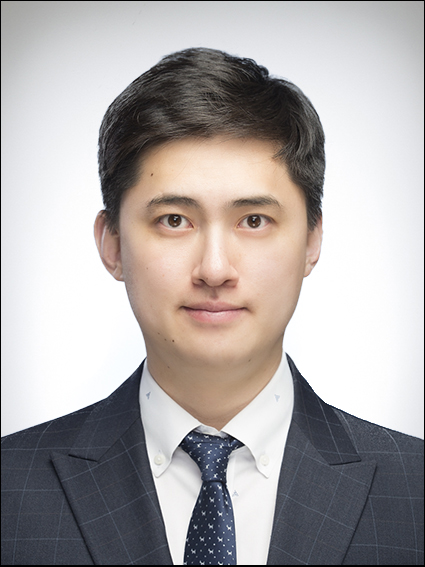
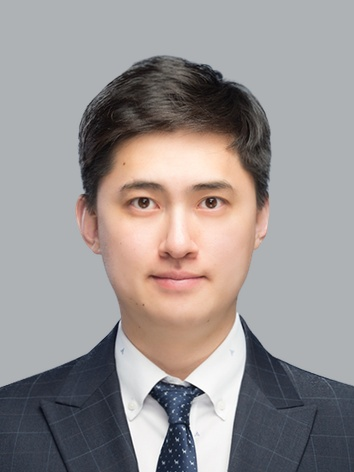
feat: add 3 new team members, update member card layout, replace photos
- Add 유동경, 임영란, 이한울 to attorneys page with education/career info
- Upgrade 공대호, 한상은 cards to featured-style (same as 공대우)
- Replace 공대우, 공대호(png→jpg), 한상은 photos
- Replace footer logo with higher resolution image
- Fix footer logo sharpness (width/height 48→120)
- Minor text fixes: 생명과학부→생명과학대학, 중국어→중국어문학과, 기술거래사 English translation

diff --git a/app/[locale]/attorneys/AttorneysContent.tsx b/app/[locale]/attorneys/AttorneysContent.tsx
@@ -49,41 +49,89 @@ export function AttorneysContent() {
         t("featured2Career5"),
       ],
     },
-  ];
-
-  const MEMBERS = [
     {
-      name: t("member1Name"),
-      roles: [t("member1Role")],
-      photo: "/attorneys/%EA%B3%B5%EB%8C%80%ED%98%B8.png",
+      name: t("featured3Name"),
+      roles: [t("featured3Role"), t("featured3Role2")],
+      photo: "/attorneys/%EC%9C%A0%EB%8F%99%EA%B2%BD.jpg",
       specialties: [
-        t("member1Specialty1"),
-        t("member1Specialty2"),
-        t("member1Specialty3"),
+        t("featured3Specialty1"),
+        t("featured3Specialty2"),
+        t("featured3Specialty3"),
+        t("featured3Specialty4"),
       ],
-      education: [t("member1Edu1")],
+      education: [t("featured3Edu1"), t("featured3Edu2")],
       career: [
-        t("member1Career1"),
-        t("member1Career2"),
-        t("member1Career3"),
+        t("featured3Career1"),
+        t("featured3Career2"),
+        t("featured3Career3"),
+        t("featured3Career4"),
+        t("featured3Career5"),
       ],
     },
     {
-      name: t("member2Name"),
-      roles: [t("member2Role")],
+      name: t("featured4Name"),
+      roles: [t("featured4Role")],
+      photo: "/attorneys/%EC%9E%84%EC%98%81%EB%9E%80.jpg",
+      specialties: [
+        t("featured4Specialty1"),
+        t("featured4Specialty2"),
+        t("featured4Specialty3"),
+        t("featured4Specialty4"),
+      ],
+      education: [t("featured4Edu1"), t("featured4Edu2")],
+      career: [
+        t("featured4Career1"),
+        t("featured4Career2"),
+      ],
+    },
+    {
+      name: t("featured5Name"),
+      roles: [t("featured5Role")],
+      photo: "/attorneys/%EC%9D%B4%ED%95%9C%EC%9A%B8.jpg",
+      specialties: [
+        t("featured5Specialty1"),
+        t("featured5Specialty2"),
+        t("featured5Specialty3"),
+      ],
+      education: [t("featured5Edu1")],
+      career: [
+        t("featured5Career1"),
+        t("featured5Career2"),
+        t("featured5Career3"),
+      ],
+    },
+    {
+      name: t("featured6Name"),
+      roles: [t("featured6Role")],
+      photo: "/attorneys/%EA%B3%B5%EB%8C%80%ED%98%B8.jpg",
+      specialties: [
+        t("featured6Specialty1"),
+        t("featured6Specialty2"),
+        t("featured6Specialty3"),
+      ],
+      education: [t("featured6Edu1")],
+      career: [
+        t("featured6Career1"),
+        t("featured6Career2"),
+        t("featured6Career3"),
+      ],
+    },
+    {
+      name: t("featured7Name"),
+      roles: [t("featured7Role")],
       photo: "/attorneys/%ED%95%9C%EC%83%81%EC%9D%80.jpg",
       specialties: [
-        t("member2Specialty1"),
-        t("member2Specialty2"),
-        t("member2Specialty3"),
+        t("featured7Specialty1"),
+        t("featured7Specialty2"),
+        t("featured7Specialty3"),
       ],
-      education: [t("member2Edu1")],
+      education: [t("featured7Edu1")],
       career: [
-        t("member2Career1"),
-        t("member2Career2"),
-        t("member2Career3"),
-        t("member2Career4"),
-        t("member2Career5"),
+        t("featured7Career1"),
+        t("featured7Career2"),
+        t("featured7Career3"),
+        t("featured7Career4"),
+        t("featured7Career5"),
       ],
     },
   ];
@@ -139,7 +187,7 @@ export function AttorneysContent() {
               />
             </div>
 
-            <div className="text-center md:text-left">
+            <div className="flex-1 min-w-0 text-center md:text-left">
               <div className="flex flex-wrap justify-center gap-2 md:justify-start">
                 {person.roles.map((r) => (
                   <span key={r} className="inline-block rounded-full bg-blue-600 px-3 py-1 text-xs font-semibold text-white">
@@ -189,70 +237,6 @@ export function AttorneysContent() {
             </div>
           </div>
         ))}
-
-        {/* Team Grid */}
-        <div className="mt-12 grid gap-6 md:grid-cols-2">
-          {MEMBERS.map((member) => (
-            <div
-              key={member.name}
-              ref={(el) => { allRefs.current[refIdx++] = el; }}
-              className="flex flex-col items-center rounded-2xl border border-slate-200 bg-white p-5 md:p-6 shadow-sm opacity-0 translate-y-8 transition-all duration-700"
-            >
-              <div className="h-48 w-36 shrink-0 overflow-hidden rounded-2xl bg-slate-100 md:h-72 md:w-56">
-                <img
-                  src={member.photo}
-                  alt={`${member.name} ${member.roles.join(" ")}`}
-                  className="h-full w-full object-cover"
-                />
-              </div>
-
-              <h3 className="mt-4 text-lg font-bold text-slate-900">
-                {member.name}
-              </h3>
-              <div className="mt-1 flex flex-wrap justify-center gap-2">
-                {member.roles.map((r) => (
-                  <span key={r} className="text-sm text-slate-500">{r}</span>
-                ))}
-              </div>
-
-              <div className="mt-3 flex flex-wrap justify-center gap-2">
-                {member.specialties.map((s) => (
-                  <span
-                    key={s}
-                    className="rounded-full border border-slate-200 bg-slate-50 px-3 py-1 text-xs font-medium text-slate-600"
-                  >
-                    {s}
-                  </span>
-                ))}
-              </div>
-
-              <div className="mt-4 w-full text-sm text-slate-600">
-                <div>
-                  <h4 className="font-semibold text-slate-900">{t("education")}</h4>
-                  <ul className="mt-1 space-y-1">
-                    {member.education.map((e) => (
-                      <li key={e} className="flex items-start gap-2">
-                        <span className="mt-1.5 h-1.5 w-1.5 shrink-0 rounded-full bg-blue-600" />
-                        {e}
-                      </li>
-                    ))}
-                  </ul>
-                </div>
-                <div className="mt-3">
-                  <h4 className="font-semibold text-slate-900">{t("career")}</h4>
-                  <ul className="mt-1 space-y-1">
-                    {member.career.map((c) => (
-                      <li key={c} className="flex items-start gap-2">
-                        <span className="mt-1.5 h-1.5 w-1.5 shrink-0 rounded-full bg-blue-600" />
-                        {c}
-                      </li>
-                    ))}
-                  </ul>
-                </div>
-              </div>
-            </div>
-          ))}
-        </div>
       </div>
     </section>
   );

diff --git a/components/footer.tsx b/components/footer.tsx
@@ -14,8 +14,8 @@ export async function Footer() {
             <Image
               src="/logo-footer.png"
               alt={t("firmName")}
-              width={48}
-              height={48}
+              width={120}
+              height={120}
               className="h-10 w-auto"
             />
             <span className="text-base font-semibold text-slate-900">
